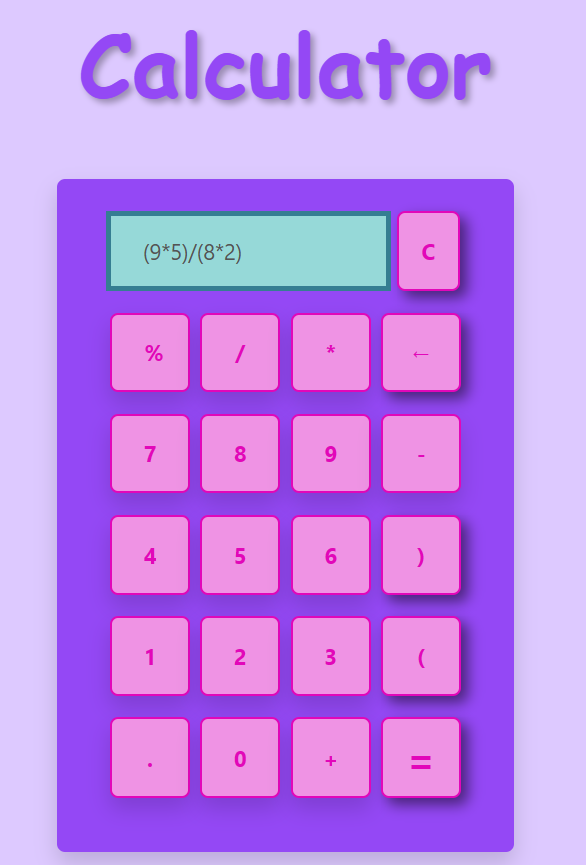
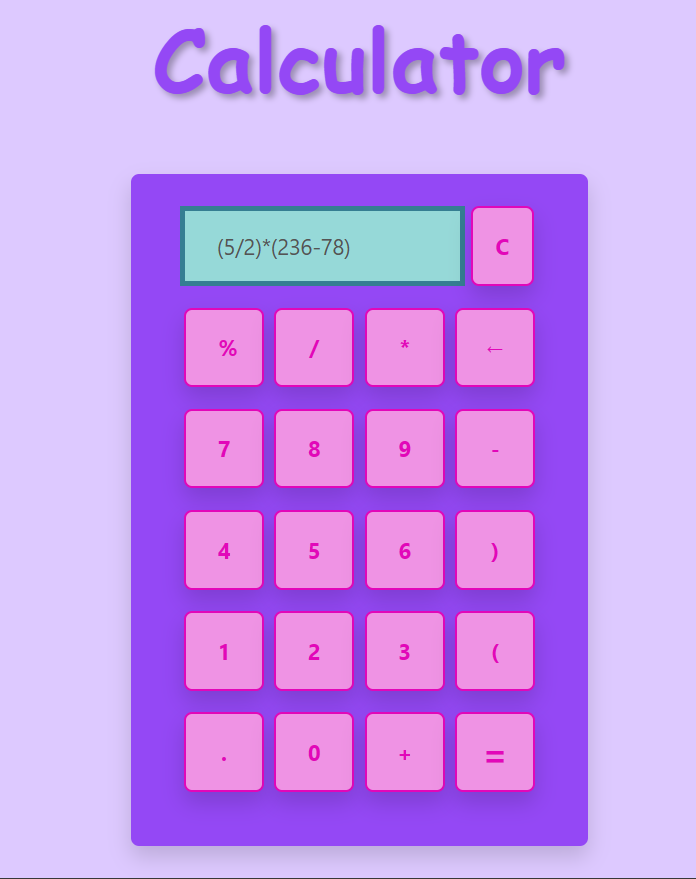
update

diff --git a/src/components/Calculatrice.js b/src/components/Calculatrice.js
@@ -47,45 +47,45 @@ export default function Calculatrice() {
       <div className="container-fluid mb-5 shadow w-25 justify-content-center rounded py-4 px-1" style={{backgroundColor:"#9448F5"}}>
         <div className="row  mx-4   justify-content-center  mb-3 ">
           <input type="text" value={res} className="col-9 px-4 py-2" style={{backgroundColor: "#96ecd4e2",border:"4px solid #277088de"}} disabled />
-          <button onClick={clear} className="col-2 mx-1 p-3 btn ">C</button>
+          <button onClick={clear} className="col-2 mx-1 p-3 btn shadow">C</button>
         </div>
 
         <div className="row my-3 justify-content-center">
-          <button value={"%"}  onClick={(e)=>{setres(res + e.target.value)}} className="col-2 mx-1 py-3 px-4 btn btn-light shadow">%</button>
-          <button value={"/"} onClick={(e)=>{setres(res + e.target.value)}}  className="col-2 mx-1 py-3 px-4 btn btn-light shadow">/</button>
-          <button value={"*"} onClick={(e)=>{setres(res + e.target.value)}}  className="col-2 mx-1 py-3 px-4 btn btn-light  shadow">*</button>
-          <button onClick={deleteLastCharacter} className="col-2 mx-1 p-2 btn btn-light">←</button>
+          <button value={"%"}  onClick={(e)=>{setres(res + e.target.value)}} className="col-2 mx-1 py-3 px-4 btn shadow">%</button>
+          <button value={"/"} onClick={(e)=>{setres(res + e.target.value)}}  className="col-2 mx-1 py-3 px-4 btn shadow">/</button>
+          <button value={"*"} onClick={(e)=>{setres(res + e.target.value)}}  className="col-2 mx-1 py-3 px-4 btn  shadow">*</button>
+          <button onClick={deleteLastCharacter} className="col-2 mx-1 p-2 btn shadow">←</button>
         
         </div>
 
         <div className="row my-3 justify-content-center">
-          <button value={"7"} onClick={(e)=>{setres(res + e.target.value)}}    className="col-2 mx-1 p-3 btn btn-light shadow">7</button>
-          <button value={"8"} onClick={(e)=>{setres(res + e.target.value)}}  className="col-2 mx-1 p-3 btn btn-light shadow">8</button>
-          <button value={"9"} onClick={(e)=>{setres(res + e.target.value)}}  className="col-2 mx-1 p-3 btn btn-light shadow">9</button>
-          <button value={"-"} onClick={(e)=>{setres(res + e.target.value)}}  className="col-2 mx-1 p-3 btn btn-light shadow" >-</button>
+          <button value={"7"} onClick={(e)=>{setres(res + e.target.value)}}    className="col-2 mx-1 p-3 btn shadow">7</button>
+          <button value={"8"} onClick={(e)=>{setres(res + e.target.value)}}  className="col-2 mx-1 p-3 btn shadow">8</button>
+          <button value={"9"} onClick={(e)=>{setres(res + e.target.value)}}  className="col-2 mx-1 p-3 btn shadow">9</button>
+          <button value={"-"} onClick={(e)=>{setres(res + e.target.value)}}  className="col-2 mx-1 p-3 btn shadow" >-</button>
           </div>
 
         <div className="row my-3 justify-content-center">
-          <button value={"4"} onClick={(e)=>{setres(res + e.target.value)}}  className="col-2 mx-1 p-3 btn btn-light shadow" >4</button>
-          <button value={"5"} onClick={(e)=>{setres(res + e.target.value)}}  className="col-2 mx-1 p-3 btn btn-light shadow" >5</button>
-          <button value={"6"} onClick={(e)=>{setres(res + e.target.value)}}  className="col-2 mx-1 p-3 btn btn-light shadow" >6</button>
-          <button value={")"} onClick={(e)=>{setres(res + e.target.value)}} className="col-2 mx-1 p-3 btn btn-light" >  ) </button>
+          <button value={"4"} onClick={(e)=>{setres(res + e.target.value)}}  className="col-2 mx-1 p-3 btn shadow" >4</button>
+          <button value={"5"} onClick={(e)=>{setres(res + e.target.value)}}  className="col-2 mx-1 p-3 btn shadow" >5</button>
+          <button value={"6"} onClick={(e)=>{setres(res + e.target.value)}}  className="col-2 mx-1 p-3 btn shadow" >6</button>
+          <button value={")"} onClick={(e)=>{setres(res + e.target.value)}} className="col-2 mx-1 p-3 btn shadow" >  ) </button>
        
         </div>
 
         <div className="row my-3 justify-content-center">
-          <button value={"1"} onClick={(e)=>{setres(res + e.target.value)}}  className="col-2 mx-1 p-3 btn btn-light shadow">1</button>
-          <button value={"2"} onClick={(e)=>{setres(res + e.target.value)}}  className="col-2 mx-1 p-3 btn btn-light shadow">2</button>
-          <button value={"3"} onClick={(e)=>{setres(res + e.target.value)}}  className="col-2 mx-1 p-3 btn btn-light shadow">3</button>
-          <button value={"("}  onClick={(e)=>{setres(res + e.target.value)}} className="col-2 mx-1 p-3 btn btn-light" > ( </button>
+          <button value={"1"} onClick={(e)=>{setres(res + e.target.value)}}  className="col-2 mx-1 p-3 btn shadow">1</button>
+          <button value={"2"} onClick={(e)=>{setres(res + e.target.value)}}  className="col-2 mx-1 p-3 btn shadow">2</button>
+          <button value={"3"} onClick={(e)=>{setres(res + e.target.value)}}  className="col-2 mx-1 p-3 btn shadow">3</button>
+          <button value={"("}  onClick={(e)=>{setres(res + e.target.value)}} className="col-2 mx-1 p-3 btn shadow" > ( </button>
 
           
         </div>
         <div className="row my-3 justify-content-center">
-          <button value={"."} onClick={(e)=>{setres(res + e.target.value)}}  className="col-2 mx-1 p-3 btn btn-light shadow">.</button>
-          <button value={"0"} onClick={(e)=>{setres(res + e.target.value)}}  className="col-2 mx-1 p-3 btn btn-light shadow">0</button>
-          <button value={"+"} onClick={(e)=>{setres(res + e.target.value)}}  className="col-2 mx-1 p-3 btn btn-light shadow">+</button>
-          <button  onClick={egal} className="col-2 mx-1  btn btn-light" style={{ fontSize: "30px", color: "#FF7FAD" }}>=</button>
+          <button value={"."} onClick={(e)=>{setres(res + e.target.value)}}  className="col-2 mx-1 p-3 btn shadow">.</button>
+          <button value={"0"} onClick={(e)=>{setres(res + e.target.value)}}  className="col-2 mx-1 p-3 btn shadow">0</button>
+          <button value={"+"} onClick={(e)=>{setres(res + e.target.value)}}  className="col-2 mx-1 p-3 btn shadow">+</button>
+          <button  onClick={egal} className="col-2 mx-1 btn shadow" style={{ fontSize: "27px", color: "#FF7FAD" }}>=</button>
 
                  
         </div>

diff --git a/README.md b/README.md
@@ -2,7 +2,7 @@
 
 A modern and user-friendly web-based calculator application built using React. 💻
 
-<img src="screenshot.png" alt="Calculator App Screenshot" width="210" height="260">
+<img src="screenshot.png" alt="Calculator App Screenshot" width="210" height="260" style="border-radius: 10px;">
 
 ## Overview
 
